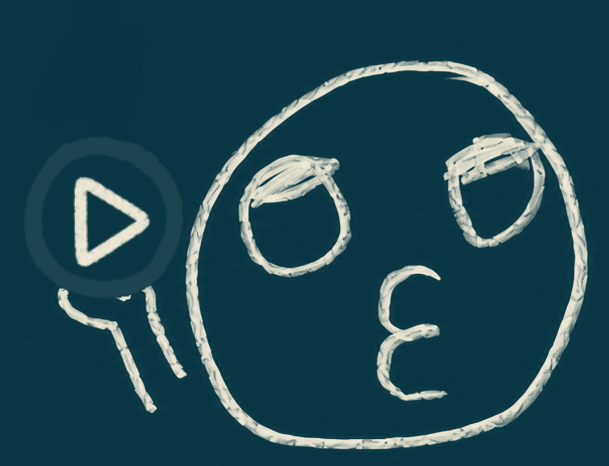
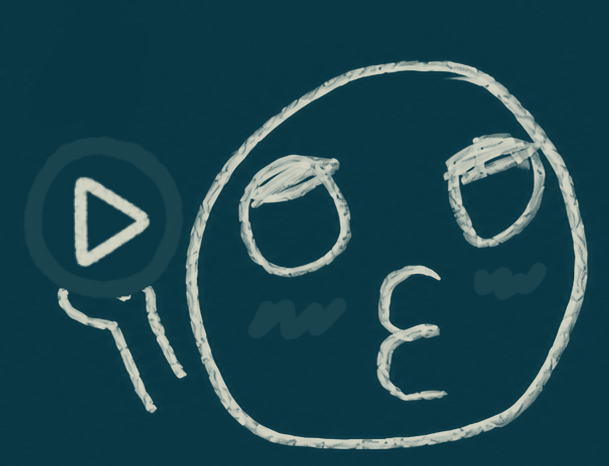
Update 2026-06-12 09:36

diff --git a/index.html b/index.html
@@ -20761,7 +20761,7 @@ let _celebActive = false, _celebLastPhrase = null, _celebStartFn = null, _celebT
 function _qCelebImg(q) {
   if (q !== 'q1' && q !== 'q2' && q !== 'q3') return null;   // q4 (no image) → no beat
   const dk = (typeof bidoroDarkTheme === 'function' && bidoroDarkTheme());
-  return 'images/focus/doro/' + q + (dk ? '-dark' : '') + '.png?v=qcel-1';
+  return 'images/focus/doro/' + q + (dk ? '-dark' : '') + '.png?v=qcel-2';
 }
 function _celebClearTimers() { _celebTimers.forEach(t => { try { clearTimeout(t); } catch (_) {} }); _celebTimers = []; }
 /* Cross-fade the idle face image to a new src: the OLD image stays put while a fixed
@@ -20779,6 +20779,35 @@ function _fcCrossfadeImg(imgEl, newSrc, dur) {
     requestAnimationFrame(() => requestAnimationFrame(() => { ov.style.opacity = '1'; }));
     setTimeout(() => { try { imgEl.setAttribute('src', newSrc); } catch (_) {} try { ov.remove(); } catch (_) {} }, ms + 40);
   } catch (_) { try { imgEl.setAttribute('src', newSrc); } catch (__) {} }
+}
+/* Cross‑fade the phrase in #fc-idle-text: snapshot the CURRENT text into a fixed overlay that
+   fades OUT while the real element adopts the new phrase + fades IN — both at once (the
+   simultaneous cross‑fade the user wants). The snapshot is a SEPARATE layer, so WKWebView can't
+   composite the old text bitmap as a stale "ghost" over the new content (the iPad overlap +
+   white box on this transformed, GPU‑layered element). `setNew()` writes the new content. */
+function _fcCrossfadeText(textEl, setNew, dur) {
+  if (!textEl) { try { if (setNew) setNew(); } catch (_) {} return; }
+  const ms = dur || 300;
+  let ghost = null;
+  try {
+    const r = textEl.getBoundingClientRect();
+    if (r.width && r.height) {
+      ghost = textEl.cloneNode(true);
+      ghost.removeAttribute('id'); ghost.setAttribute('aria-hidden', 'true');
+      ghost.style.cssText = 'position:fixed;left:' + r.left + 'px;top:' + r.top + 'px;width:' +
+        r.width + 'px;height:' + r.height + 'px;margin:0;transform:none;z-index:7;' +
+        'pointer-events:none;opacity:1;transition:opacity ' + ms + 'ms ease;';
+      document.body.appendChild(ghost);
+    }
+  } catch (_) {}
+  textEl.style.transition = 'none'; textEl.style.opacity = '0';   // real element: new content, hidden
+  try { if (setNew) setNew(); } catch (_) {}
+  // commit the hidden start frame, then fade the real IN + the ghost OUT together
+  requestAnimationFrame(() => requestAnimationFrame(() => {
+    textEl.style.transition = 'opacity ' + ms + 'ms ease'; textEl.style.opacity = '1';
+    if (ghost) ghost.style.opacity = '0';
+  }));
+  setTimeout(() => { try { if (ghost && ghost.parentNode) ghost.remove(); } catch (_) {} }, ms + 80);
 }
 function _fcRunCelebration(q, i, startFn) {
   if (!_qCelebImg(q)) { try { startFn(); } catch (_) {} return; }
@@ -20802,16 +20831,14 @@ function _fcRunCelebration(q, i, startFn) {
   if (!pool.length) pool = _CELEB_PHRASES.slice();
   const phrase = pool[Math.floor(Math.random() * pool.length)];
   _celebLastPhrase = phrase;
-  // TEXT fades OUT → swaps → fades IN. IMAGE cross‑fades (old stays, qN fades in over it).
-  txt.style.transition = 'opacity .3s ease'; txt.style.opacity = '0';
+  // TEXT cross‑fades: the OLD phrase fades OUT (as a separate snapshot layer) AT THE SAME TIME
+  // as the new phrase fades IN — a true cross‑fade (per request). The snapshot is also what
+  // avoids the WKWebView "ghost" (old text bitmap lingering over the new on this transformed/
+  // GPU‑layered element → the iPad overlap + white box). IMAGE cross‑fades the same way.
   const ns0 = _qCelebImg(q); if (ns0) _fcCrossfadeImg(img, ns0, 300);
-  _celebTimers.push(setTimeout(() => {
-    l1.textContent = phrase; l2.textContent = '';
-    try { _fitElTo2Lines(l1, 14); } catch (_) {}
-    txt.style.opacity = '1';
-    // Phase 2 — after the fade‑in + a 2 s hold, hand off to the real start.
-    _celebTimers.push(setTimeout(_fcFinishCelebration, 300 + 2000));
-  }, 320));
+  _fcCrossfadeText(txt, () => { l1.textContent = phrase; l2.textContent = ''; try { _fitElTo2Lines(l1, 14); } catch (_) {} }, 300);
+  // Phase 2 — after the cross‑fade + a 2 s hold, hand off to the real start.
+  _celebTimers.push(setTimeout(_fcFinishCelebration, 300 + 2000));
 }
 function _fcFinishCelebration() {
   _celebClearTimers();
@@ -25613,6 +25640,9 @@ function openMasterQuadrantPicker(masterBtn) {
     b.className = 'qp ' + q;
     b.dataset.q = q;
     b.innerHTML = labels[q];
+    // Colour each quadrant bar like ITS task bar (bidoroTaskBg/Text — theme-aware) instead of the
+    // old hardcoded pastel, so the picker mirrors the real bars. !important beats the solarized rule.
+    try { b.style.setProperty('background', bidoroTaskBg(q), 'important'); b.style.setProperty('color', bidoroTaskText(q), 'important'); } catch (_) {}
     picker.appendChild(b);
   });
   const cancel = document.createElement('button');
@@ -26005,6 +26035,8 @@ function showQuadrantInput(parent, picker, masterBtn, q) {
   addBtn.type = 'button';
   addBtn.className = 'qp-addtask ' + q;
   addBtn.innerHTML = '<svg viewBox="0 0 24 24" width="16" height="16" aria-hidden="true"><path d="M12 5v14M5 12h14" stroke="currentColor" stroke-width="2.4" stroke-linecap="round"/></svg><span>Add</span>';
+  // Match the +Add button to ITS quadrant's task bar (bg + text), theme-aware (overrides the CSS).
+  try { addBtn.style.setProperty('background', bidoroTaskBg(q), 'important'); addBtn.style.setProperty('color', bidoroTaskText(q), 'important'); } catch (_) {}
   const cancelBtn = document.createElement('button');
   cancelBtn.type = 'button';
   cancelBtn.className = 'qp-cancel2';
@@ -26108,7 +26140,9 @@ function showMatrixCellAdd(cell, addBtn, q){
   if (!cell || !addBtn || !addBtn.parentNode) return;
   const barEl = cell.querySelector('.task-row');
   const barH  = barEl ? Math.round(barEl.getBoundingClientRect().height) : Math.round(addBtn.getBoundingClientRect().height || 48);
-  const rectH = Math.max(108, 2 * barH + 6);                  // 2 task bars + the gap
+  const _wideMca = (typeof window.matchMedia === 'function') && window.matchMedia('(min-width: 701px)').matches;
+  const _rectFull = Math.max(108, 2 * barH + 6);             // 2 task bars + the gap
+  const rectH = _wideMca ? Math.round(_rectFull * 0.8) : _rectFull;   // iPad/PC web: shrink the 3-col picker to 80% height (portrait keeps full)
   try { if (typeof _resetAddRepeat === 'function') _resetAddRepeat(); } catch(_){}   // fresh add state
   document.body.classList.add('tt-adding');
   _mcaRelocateChips(document.querySelector('#focus-tasks-title .ftt-chips'));   // Repeat/Due/Memo → matrix header
@@ -26120,7 +26154,7 @@ function showMatrixCellAdd(cell, addBtn, q){
       '<input type="text" class="add-task-input mca-name" placeholder="Task name" maxlength="200" autocomplete="off" autocorrect="off">' +
       '<button type="button" class="mca-add-inline">' + addSvg + '<span>Add</span></button>' +
     '</div>' +
-    '<div class="mca-rect" style="height:' + rectH + 'px">' +
+    '<div class="mca-rect" style="height:' + rectH + 'px;min-height:' + rectH + 'px">' +
       '<div class="mca-col mca-slidercol"><div class="qp-slider ' + q + '"><img class="qp-sl-img" src="slider-grip.webp" alt="" draggable="false"><span class="qp-sl-label" aria-hidden="true"></span></div></div>' +
       '<div class="mca-col mca-carcol"></div>' +
       '<div class="mca-col mca-actcol"><button type="button" class="mca-add">' + addSvg + '<span>Add</span></button><button type="button" class="mca-cancel">Cancel</button></div>' +
@@ -26129,14 +26163,18 @@ function showMatrixCellAdd(cell, addBtn, q){
   const input  = mca.querySelector('.mca-name');
   const slider = mca.querySelector('.qp-slider');
   mca.querySelector('.mca-carcol').appendChild(_buildPillarPicker());   // carousel → sets _pickedPillar + rotates bucket
+  // iPad/PC web: leave a gap below the picker (Cancel bottom → the task bar below) equal to the
+  // (+Add top → task-name input bottom) distance, so the shrunk picker doesn't touch the next bar.
+  if (_wideMca) { try { const _nm = mca.querySelector('.mca-name'), _ab = mca.querySelector('.mca-add'); if (_nm && _ab) mca.style.marginBottom = Math.max(0, Math.round(_ab.getBoundingClientRect().top - _nm.getBoundingClientRect().bottom)) + 'px'; } catch(_){} }
   try { input.focus({ preventScroll: true }); } catch(_){ try { input.focus(); } catch(__){} }
-  _createDurationPreviewBlock(q);
+  _createDurationPreviewBlock(q, true);   // matrix add → NO page auto-scroll; the keyboard handler scrolls only when the soft keyboard rises
   _wireDurationSlider(slider);
   let done = false;
   function teardown(){
     done = true;
     window._ttAddCancel = null;
     document.removeEventListener('pointerdown', onOutside, true);
+    try { if (window._mcaKbReset) window._mcaKbReset(); } catch(_){}   // remove the keyboard spacer + scroll back down
     try { if (typeof _resetAddRepeat === 'function') _resetAddRepeat(); } catch(_){}   // clears tt-repeat-days/weekday/due/memo
     _mcaRestoreChips();
     document.body.classList.remove('tt-adding');
@@ -26162,6 +26200,7 @@ function showMatrixCellAdd(cell, addBtn, q){
   });
   const cancelBtn = mca.querySelector('.mca-cancel');
   if (cancelBtn) {
+    try { cancelBtn.style.borderColor = bidoroTaskText(q); } catch(_){}   // dashed outline = this quadrant's task-bar TEXT colour (iPad/PC web)
     cancelBtn.addEventListener('touchend', (e)=>{ e.preventDefault(); e.stopPropagation(); finish(false); }, { passive:false });
     cancelBtn.addEventListener('click',    (e)=>{ e.preventDefault(); e.stopPropagation(); finish(false); });
   }
@@ -26181,7 +26220,7 @@ function showMatrixCellAdd(cell, addBtn, q){
      • no block below the line / a gap      → start at the line (rules 1 & 3)
    Default duration 25 min (the slider adjusts it). Held in window._previewBlock
    ONLY (never state.scheduledBlocks), so it can't persist / sync. */
-function _createDurationPreviewBlock(q) {
+function _createDurationPreviewBlock(q, skipPageScroll) {
   const now = Date.now();
   const DEF = 30 * 60 * 1000;   // default = one 25-min work + 5-min break block (single-block "combine" model)
   // Append AFTER every block still ahead of the now-line (the "tail"), so each
@@ -26211,7 +26250,10 @@ function _createDurationPreviewBlock(q) {
     const _gTarget = (_ta && _gtdMap && typeof _gtdMap.msToPx === 'function') ? Math.max(0, _gtdMap.msToPx(now - 30 * 60000)) : null;
     requestAnimationFrame(() => {
       try {
-        if (_main && _wrap) {
+        // skipPageScroll = the MATRIX +Add: don't page-scroll the Time & Tasks section to the top
+        // (that left a big persistent white gap below the matrix). The keyboard-aware handler
+        // (_mcaKb / bidoroKbScroll) does the only scroll there is — and only when the keyboard rises.
+        if (!skipPageScroll && _main && _wrap) {
           const _t = _main.scrollTop + _wrap.getBoundingClientRect().top - _main.getBoundingClientRect().top - 3;   // leave a 3px gap above the Time & Tasks section
           _main.scrollTo({ top: Math.max(0, _t), behavior: 'smooth' });
         }
@@ -26222,6 +26264,75 @@ function _createDurationPreviewBlock(q) {
   } catch (_) {}
 }
 
+/* ===== Matrix +Add — keyboard-aware scroll-up =====
+   When the VIRTUAL soft keyboard rises while a matrix +Add picker (.mca) is open, scroll the page
+   UP just enough that the picker's bottom sits 5px above the keyboard's top — adding only the
+   extra room it needs via a temporary spacer — then UNDO it (remove spacer + scroll back) on close
+   or keyboard-hide. PHYSICAL keyboards never fire `keyboardWillShow` / shrink the visualViewport,
+   so they get no scroll (per request). Clamp: never scroll so far that the task-name input rises
+   above the top bar — the top bar's bottom edge stays ≥3px above the input's top (matters on the
+   short iPhone-landscape height). q1/top cells already clear the keyboard → delta ≤ 0 → no scroll;
+   q3/q4 bottom cells scroll up. Driven by `window.bidoroKbScroll(heightPx)` (ios-shim's Capacitor
+   keyboard events) + a visualViewport listener (web / iOS Safari). */
+(function(){
+  let _spacer = null, _savedTop = null, _scroller = null;
+  function _mca(){ return document.querySelector('#focus-matrix .mca'); }
+  function _kbTopFromVV(){
+    const vv = window.visualViewport; if (!vv) return null;
+    const hidden = window.innerHeight - (vv.height + vv.offsetTop);   // px of layout viewport the keyboard covers
+    return hidden > 90 ? (vv.offsetTop + vv.height) : null;           // <90px ≈ no keyboard (toolbars / rounding)
+  }
+  function reset(){
+    try {
+      if (_spacer && _spacer.parentNode) _spacer.remove();
+      if (_scroller && _savedTop != null) _scroller.scrollTo({ top: _savedTop, behavior: 'smooth' });
+    } catch(_){}
+    _spacer = null; _scroller = null; _savedTop = null;
+  }
+  function apply(kbHeight){
+    try {
+      const mca = _mca(); if (!mca) return;                 // only for the matrix +Add picker
+      const main = document.querySelector('main'); if (!main) return;
+      let kbTop;
+      if (kbHeight && kbHeight > 0) kbTop = window.innerHeight - kbHeight;   // Capacitor (resize:none → kb overlays the bottom)
+      else { const t = _kbTopFromVV(); if (t == null) return; kbTop = t; }   // web / Safari
+      let delta = (mca.getBoundingClientRect().bottom + 5) - kbTop;          // lift so picker bottom = kbTop − 5
+      if (delta <= 1) return;                                                // already above the keyboard
+      // CLAMP — keep the task-name input top ≥ (top bar bottom + 3) (iPhone-landscape short height).
+      const input = mca.querySelector('.mca-name'), nav = document.querySelector('nav.tabs');
+      if (input && nav) {
+        const maxDelta = input.getBoundingClientRect().top - nav.getBoundingClientRect().bottom - 3;
+        delta = Math.min(delta, Math.max(0, maxDelta));
+      }
+      if (delta <= 1) return;
+      if (_savedTop == null) { _scroller = main; _savedTop = main.scrollTop; }   // first apply wins; remember return point
+      const desired = _scroller.scrollTop + delta;
+      const extra = Math.max(0, Math.ceil(desired - (_scroller.scrollHeight - _scroller.clientHeight)));
+      if (extra > 0) {
+        if (!_spacer) {
+          _spacer = document.createElement('div');
+          _spacer.setAttribute('aria-hidden','true');
+          _spacer.style.cssText = 'flex:0 0 auto;width:1px;pointer-events:none;';
+          _scroller.appendChild(_spacer);
+        }
+        _spacer.style.height = extra + 'px';
+      }
+      _scroller.scrollTo({ top: desired, behavior: 'smooth' });
+    } catch(_){}
+  }
+  window.bidoroKbScroll = function(h){ if (h && h > 0) apply(h); else reset(); };
+  window._mcaKbReset = reset;
+  if (window.visualViewport) {
+    let _t = null;
+    window.visualViewport.addEventListener('resize', function(){
+      clearTimeout(_t);
+      _t = setTimeout(function(){
+        if (!_mca()) { reset(); return; }
+        if (_kbTopFromVV() == null) reset(); else apply(0);
+      }, 60);
+    });
+  }
+})();
 /* Drag anywhere on the slider box (down = grow, up = shrink) → resize the
    preview block's BOTTOM edge in 5-min snaps (1 px ≈ 1 min, gauge scale). Light
    haptic per 5-min step. Min 5 min, max 24 h. */

diff --git a/ios-shim.js b/ios-shim.js
@@ -110,10 +110,14 @@
           ? info.keyboardHeight : 300;
         document.documentElement.style.setProperty('--kb-height', h + 'px');
         document.body.classList.add('ios-kb-open');
+        // Matrix +Add: lift the picker above the (virtual) keyboard. Physical keyboards
+        // don't fire this event, so they correctly get no scroll.
+        try { if (window.bidoroKbScroll) window.bidoroKbScroll(h); } catch (_) {}
       });
       P.Keyboard.addListener('keyboardWillHide', () => {
         document.body.classList.remove('ios-kb-open');
         document.documentElement.style.setProperty('--kb-height', '0px');
+        try { if (window.bidoroKbScroll) window.bidoroKbScroll(0); } catch (_) {}
       });
     } catch (_) {}
   }
